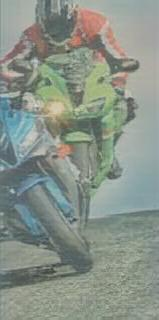
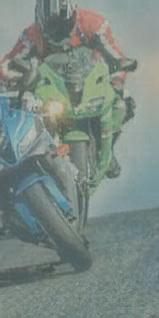
Replaced hard coded logic for accepting arbitrary image input size

diff --git a/test.py b/test.py
@@ -1,6 +1,7 @@
 import argparse
 from pathlib import Path
 import os
+import math
 import glob
 import torch
 import torch.nn as nn
@@ -18,33 +19,14 @@ from function import normal
 import numpy as np
 import time
 import cv2
-def test_transform(size, crop):
+
+def test_transform(width_new, height_new):
     transform_list = []
-   
-    if size != 0: 
-        transform_list.append(transforms.Resize(size))
-    if crop:
-        transform_list.append(transforms.CenterCrop(size))
+    if width_new and height_new: 
+        transform_list.append(transforms.Resize((height_new, width_new)))
     transform_list.append(transforms.ToTensor())
     transform = transforms.Compose(transform_list)
     return transform
-def style_transform(h,w):
-    k = (h,w)
-    size = int(np.max(k))
-    transform_list = []    
-    transform_list.append(transforms.CenterCrop((h,w)))
-    transform_list.append(transforms.ToTensor())
-    transform = transforms.Compose(transform_list)
-    return transform
-
-def content_transform():
-    
-    transform_list = []   
-    transform_list.append(transforms.ToTensor())
-    transform = transforms.Compose(transform_list)
-    return transform
-
-  
 
 parser = argparse.ArgumentParser()
 # Basic options
@@ -167,37 +149,47 @@ def expand2square(pil_img, background_color):
         result.paste(pil_img, ((height - width) // 2, 0))
         return result
 
-def process_img(content_path, style_path, frame=None):
-    width_c, height_c = Image.open(content_path).size
-    print(width_c, height_c)
-    size_max = max(width_c, height_c)
-    if size_max % 64 != 0:
+def resize_shape(width, height):
+    res_width = width
+    res_height = height
+    if width % 64 != 0:
         start = 64
-        while start < size_max:
+        while start < width:
             start += 64
-        size_max = start
-    content_im = expand2square(Image.open(content_path).convert("RGB"), (0, 0, 0)).resize((size_max, size_max), Image.LANCZOS)
+        res_width = start
+    if height % 64 != 0:
+        start = 64
+        while start < height:
+            start += 64
+        res_height = start
+    return res_width, res_height
+        
+def process_img(content_path, style_path, frame=None):
+    content_im = Image.open(content_path)
+    width_ori, height_ori = content_im.size
+    width_new, height_new = resize_shape(width_ori, height_ori)
+    
+    #print(width_ori, height_ori, width_new, height_new)
     style_im = Image.open(style_path).convert("RGB")
-    content_tf = test_transform(size_max, size_max)
-    style_tf = test_transform(size_max, size_max)
-    content_tf1 = content_transform()   
+    content_tf = test_transform(width_new, height_new)
+    style_tf = test_transform(width_new, height_new)
+      
     if frame:
         content = content_tf(frame)
     else:
         content = content_tf(content_im)
 
     h,w,c=np.shape(content)    
-    print(h, w, c)
-    style_tf1 = style_transform(h,w)
+    
     style = style_tf(style_im)
-    print(style.shape)
-  
+    #print("Content Shape:", content.shape)
+    #print("Style Shape:", style.shape)
     style = style.to(device).unsqueeze(0)
     content = content.to(device).unsqueeze(0)
     
         
     with torch.no_grad():
-        output = network(content,style)[0]    
+        output = network(content,style)[0]
         output = output.cpu()
     #print(output.shape)
     if frame:
@@ -210,20 +202,11 @@ def process_img(content_path, style_path, frame=None):
             output_path, splitext(basename(content_path))[0],
             splitext(basename(style_path))[0], save_ext
         )
-        print(output.shape, "!!!!")
-        print(width_c, height_c)
-        if width_c > height_c:
-            start = (width_c - height_c) // 2
-            #print(start, start + width_c)
-            output = output[:, :, start : (start + height_c), :]
-        else:
-            start = (height_c - width_c) // 2
-            output = output[:, :, :, start : (start + width_c)]
-        print(output.shape, "!!!!")
-        save_image(output, output_name)
+        transform = transforms.ToPILImage()
+        img = transform(output[0])
+        img = img.resize((width_ori, height_ori))
+        img.save(output_name)
         return None
-    
-
 
 count_vids = 0
 for content_path in content_paths:

diff --git a/models/transformer.py b/models/transformer.py
@@ -16,7 +16,6 @@ class Transformer(nn.Module):
                  activation="relu", normalize_before=False,
                  return_intermediate_dec=False):
         super().__init__()
-
         encoder_layer = TransformerEncoderLayer(d_model, nhead, dim_feedforward,
                                                 dropout, activation, normalize_before)
         encoder_norm = nn.LayerNorm(d_model) if normalize_before else None
@@ -43,12 +42,11 @@ class Transformer(nn.Module):
                 nn.init.xavier_uniform_(p)
 
     def forward(self, style, mask , content, pos_embed_c, pos_embed_s):
-
         # content-aware positional embedding
         content_pool = self.averagepooling(content)       
         pos_c = self.new_ps(content_pool)
         pos_embed_c = F.interpolate(pos_c, mode='bilinear',size= style.shape[-2:])
-
+        _, _, H, W = style.shape # record the correct shape
         ###flatten NxCxHxW to HWxNxC     
         style = style.flatten(2).permute(2, 0, 1)
         if pos_embed_s is not None:
@@ -63,13 +61,11 @@ class Transformer(nn.Module):
         content = self.encoder_c(content, src_key_padding_mask=mask, pos=pos_embed_c)
         hs = self.decoder(content, style, memory_key_padding_mask=mask,
                           pos=pos_embed_s, query_pos=pos_embed_c)[0]
-        
-        ### HWxNxC to NxCxHxW to
+        ### HxWxNxC to NxCxHxW
         N, B, C= hs.shape          
-        H = int(np.sqrt(N))
+        
         hs = hs.permute(1, 2, 0)
-        hs = hs.view(B, C, -1,H)
-
+        hs = hs.view(B, C, H, W)
         return hs
 
 

diff --git a/models/StyTR.py b/models/StyTR.py
@@ -165,7 +165,6 @@ class StyTrans(nn.Module):
         return results[1:]
 
     def calc_content_loss(self, input, target):
-      #print(input.size(), target.size())
       assert (input.size() == target.size())
       assert (target.requires_grad is False)
       return self.mse_loss(input, target)
@@ -189,8 +188,7 @@ class StyTrans(nn.Module):
             samples_c = nested_tensor_from_tensor_list(samples_c)   # support different-sized images padding is used for mask [tensor, mask] 
         if isinstance(samples_s, (list, torch.Tensor)):
             samples_s = nested_tensor_from_tensor_list(samples_s) 
-        
-        # ### features used to calcate loss 
+        ### features used to calcate loss 
         content_feats = self.encode_with_intermediate(samples_c.tensors)
         style_feats = self.encode_with_intermediate(samples_s.tensors)
 
@@ -203,13 +201,11 @@ class StyTrans(nn.Module):
         pos_c = None
 
         mask = None
-        hs = self.transformer(style, mask , content, pos_c, pos_s)   
+        hs = self.transformer(style, mask, content, pos_c, pos_s)
         Ics = self.decode(hs)
-
         Ics_feats = self.encode_with_intermediate(Ics)
-        #print("here")
+        
         loss_c = self.calc_content_loss(normal(Ics_feats[-1]), normal(content_feats[-1]))+self.calc_content_loss(normal(Ics_feats[-2]), normal(content_feats[-2]))
-        #print("hereasdasdas")
         # Style loss
         loss_s = self.calc_style_loss(Ics_feats[0], style_feats[0])
         for i in range(1, 5):
